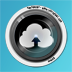
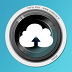
Improved Lite version implementation.

diff --git a/tottepost/TottePostSettings/TottepostSettingTableViewController.m b/tottepost/TottePostSettings/TottepostSettingTableViewController.m
@@ -91,6 +91,14 @@ static NSString *kTwitterPhotoSubmitterType = @"TwitterPhotoSubmitter";
     UITableViewCell *cell = [[UITableViewCell alloc] initWithStyle:UITableViewCellStyleValue1 reuseIdentifier:nil];
     if(tag == SV_GENERAL_COUNT){
         cell.textLabel.text = [TTLang localized:@"Settings_Row_About"];
+#ifdef LITE_VERSION
+    }else if(tag == SV_GENERAL_COMMENT){
+        cell = [super createGeneralSettingCell:tag];
+        cell.textLabel.text = [NSString stringWithFormat:@"%@ %@", cell.textLabel.text, [TTLang localized:@"Settings_Row_Comment_Disabled"]];
+        [cell.textLabel setTextColor:[UIColor lightGrayColor]];
+        UISwitch *s = (UISwitch *)cell.accessoryView;
+        s.enabled = NO;
+#endif
     }else{
         return [super createGeneralSettingCell:tag];
     }

diff --git a/tottepost/MainViewController.m b/tottepost/MainViewController.m
@@ -133,7 +133,11 @@ static NSString *kFilePhotoSubmitterType = @"FilePhotoSubmitter";
     lastOrientation_ = orientation_;
     
     if(UI_USER_INTERFACE_IDIOM() == UIUserInterfaceIdiomPhone){
+#ifdef LITE_VERSION
+        launchImageView_ = [[UIImageView alloc] initWithImage:[UIImage imageNamed:@"DefaultLite.png"]];
+#else
         launchImageView_ = [[UIImageView alloc] initWithImage:[UIImage imageNamed:@"Default.png"]];
+#endif
         [self.view addSubview:launchImageView_];
     }
     
